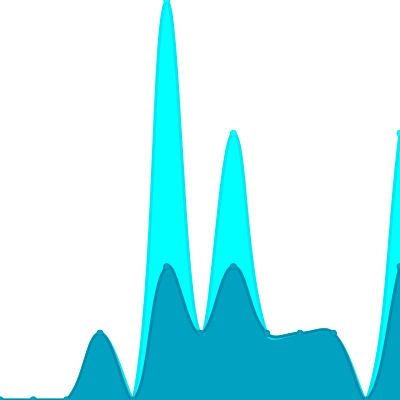
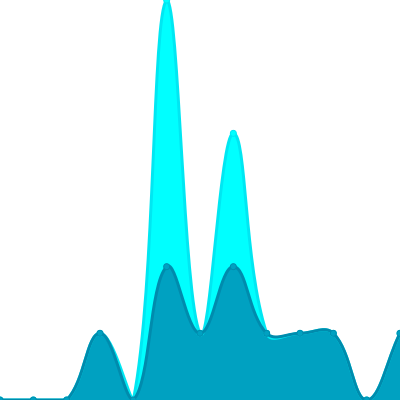
Update views

Changed region(s): [[0.87, 0.3, 1.0, 1.0]]

diff --git a/readme/278571140/year.md b/readme/278571140/year.md
@@ -23,10 +23,10 @@
 			<code>2022/9/1</code>
 		</td>
 		<td>
-			<code>2</code>
+			<code>1</code>
 		</td>
 		<td>
-			<code>4</code>
+			<code>1</code>
 		</td>
 	</tr>
 	<tr>
@@ -164,7 +164,7 @@
 </table>
 
 </details>
-<small><i>Last updated on 2022/9/30 12:26 AM UTC</i></small>
+<small><i>Last updated on 2022/9/30 6:26 AM UTC</i></small>
 
 ## ✂Copy and 📋 Paste
 ### SVG Badge

diff --git a/README.md b/README.md
@@ -37,7 +37,7 @@ The project created and maintained by [gayanvoice](https://github.com/gayanvoice
 	</tr>
 </table>
 
-<small><i>Last updated on 2022/9/30 12:26 AM UTC</i></small>
+<small><i>Last updated on 2022/9/30 6:26 AM UTC</i></small>
 
 ## ✂Copy and 📋 Paste
 ### Total Views Badge
